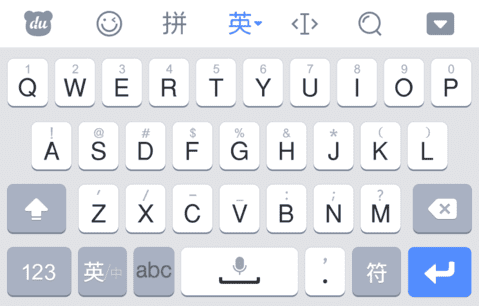
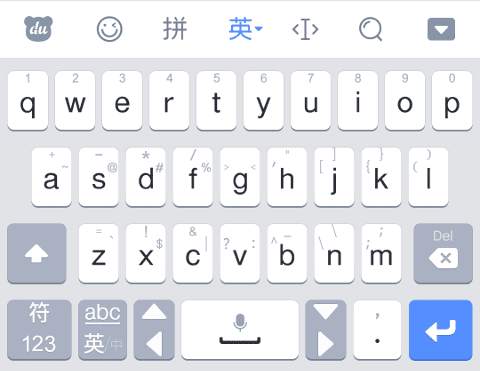
截图作皮肤封面

diff --git a/README.md b/README.md
@@ -1,6 +1,8 @@
 # ProgrammingKeyboard
 百度输入法的皮肤，为编程打造，  
-基于默认皮肤，仅修改竖屏英文全键盘，添加所有ascii符号，
+基于默认皮肤，仅修改竖屏英文全键盘，添加所有ascii符号，  
+
+![img](bds/demo.png)  
 
 2.0:
 基于最新的默认皮肤重做，
@@ -41,5 +43,3 @@
 2. port/res/default.css
 3. port/gen.ini
 4. res/fore2.til
-
-![img](screenshots/latest.png)
